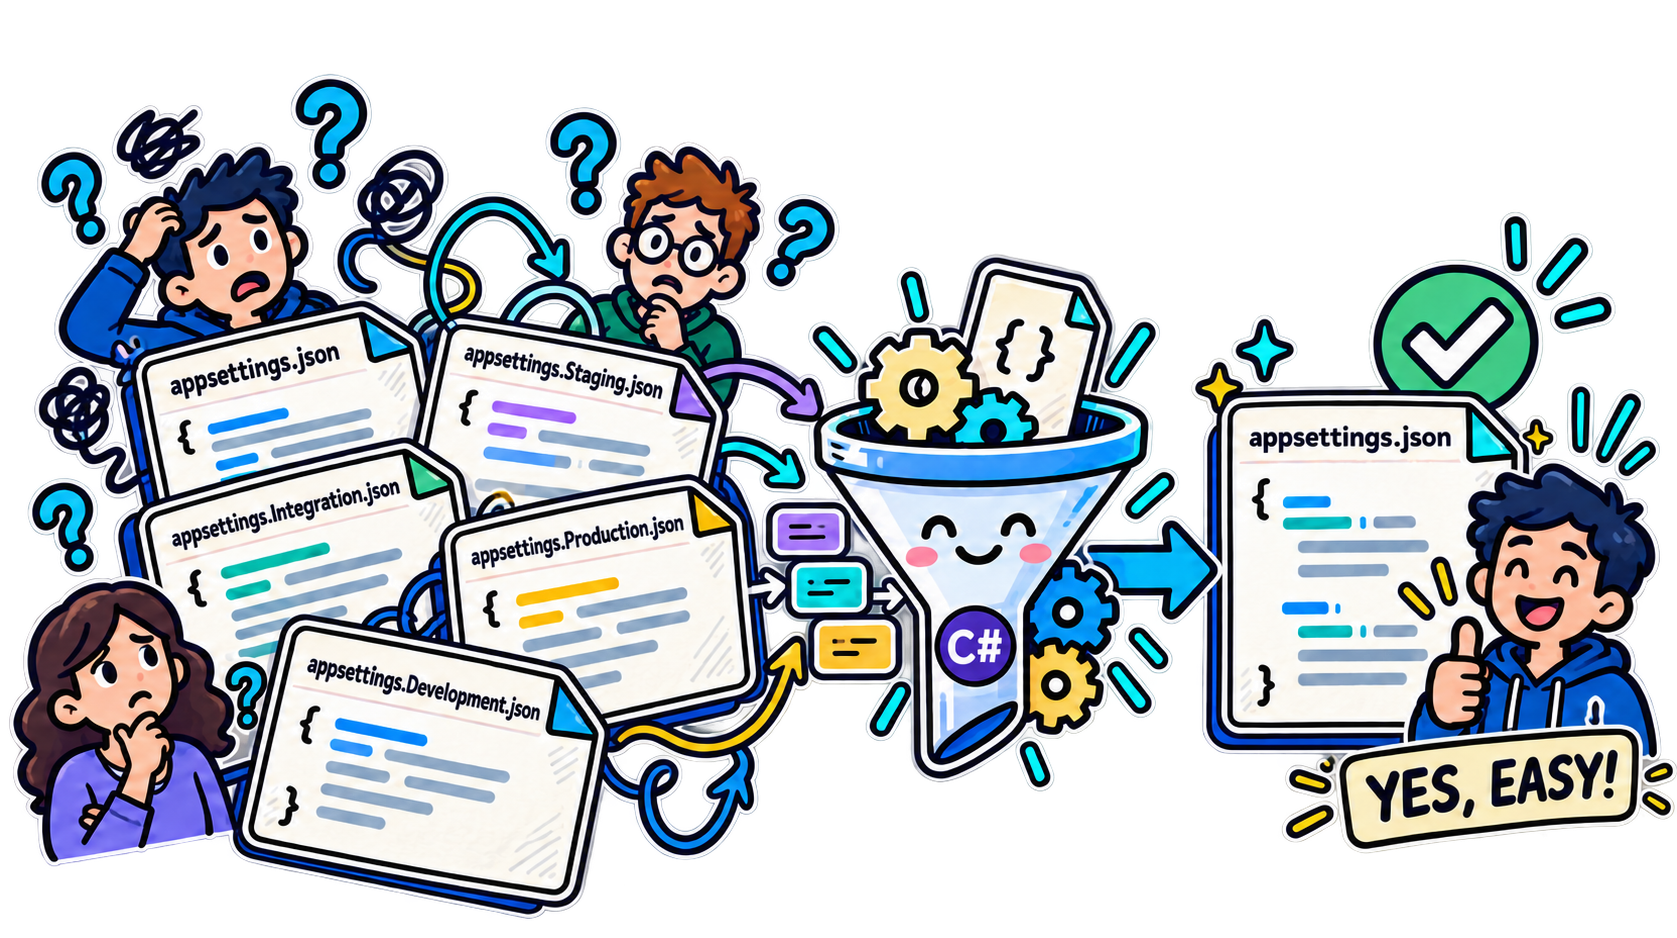
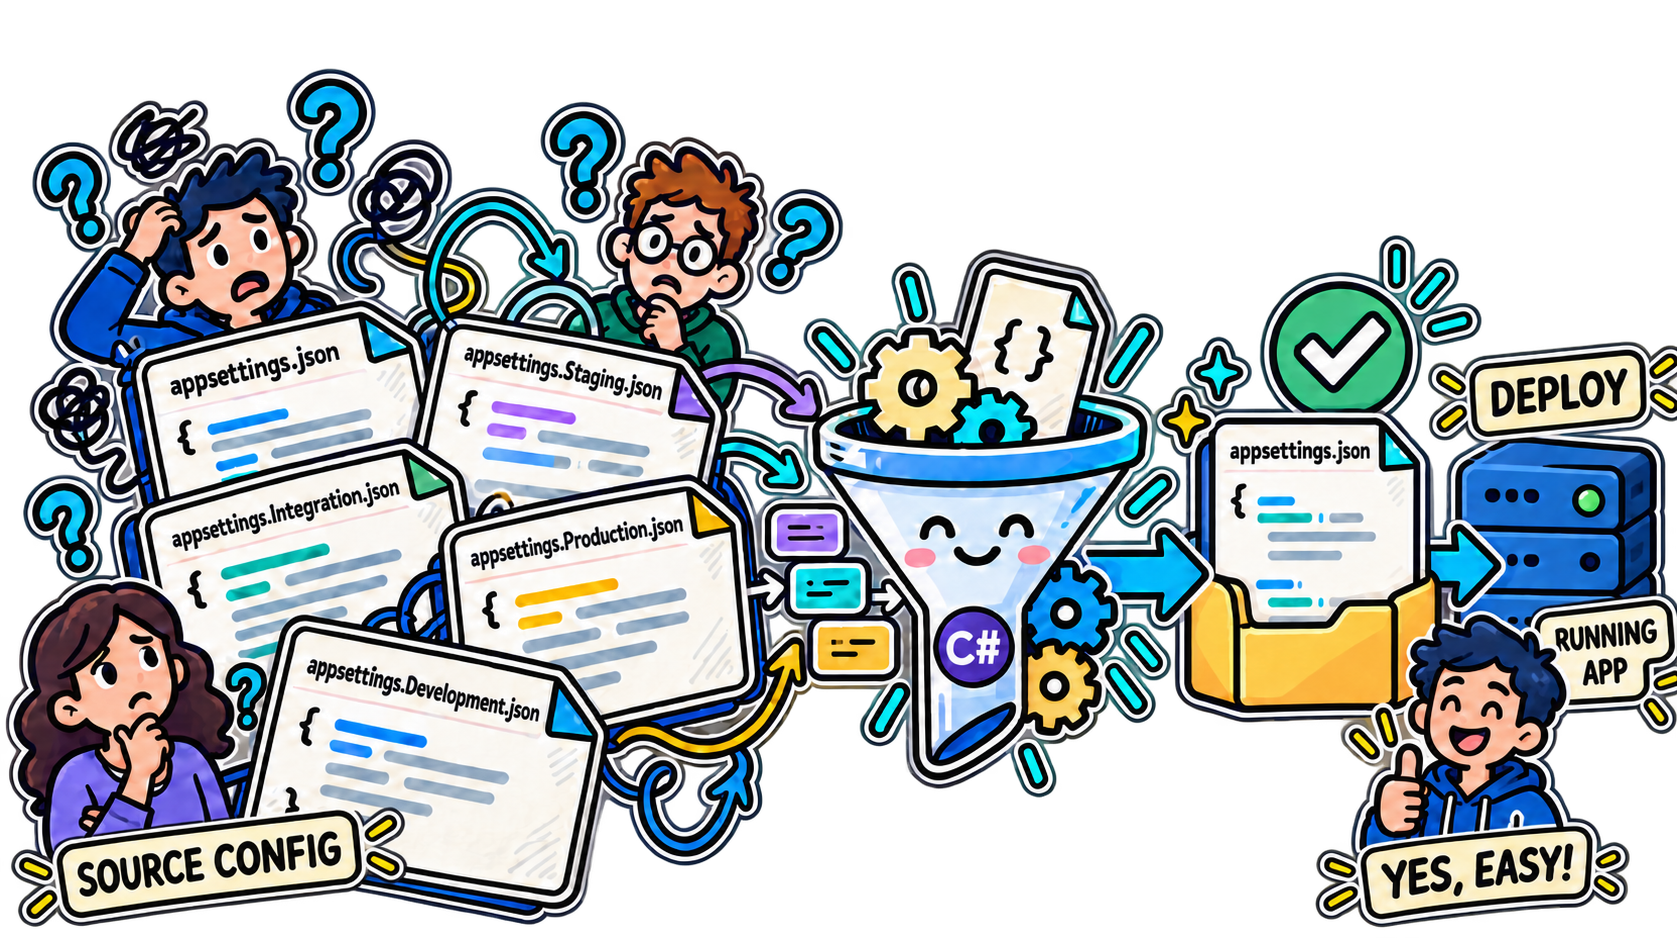
Clarify deployment workflow in hero and README

Changed region(s): [[0.0, 0.0618, 1.0, 0.9893]]

diff --git a/README.md b/README.md
@@ -1,6 +1,12 @@
 # dotnet-appsettings-materialize
 
-<img src="assets/hero-materialize.png" alt="appsettings-materialize combines layered JSON configuration files into one effective configuration">
+> **Predictable ASP.NET Core deployments:** turn layered `appsettings` files into the one `appsettings.json` your published app runs.
+
+<img src="assets/hero-materialize.png" alt="Many ASP.NET Core configuration files are materialized into one appsettings.json and deployed to a running app">
+
+```bash
+dotnet tool install --global dotnet-appsettings-materialize
+```
 
 `appsettings-materialize` turns a defined sequence of ASP.NET Core JSON configuration layers into one deterministic, deployment-ready file, simplifying administration and removing ambiguity about which file contains the effective settings from that provider chain—all while preserving .NET's configuration semantics.
 
@@ -8,10 +14,6 @@
 > **The .NET-native advantage:** `appsettings-materialize` uses `Microsoft.Extensions.Configuration.Json` as its source of truth and computes the exact effective result of the selected ASP.NET Core JSON provider chain ahead of deployment. The server can then consume one deterministic file instead of resolving multiple JSON layers at runtime, while provider order, precedence rules, and configuration-key semantics remain unchanged.
 
 ## Install
-
-```bash
-dotnet tool install --global dotnet-appsettings-materialize --version 1.0.0
-```
 
 The installed command is `appsettings-materialize`.
 
